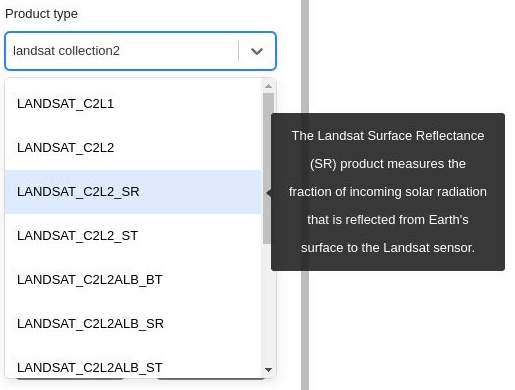
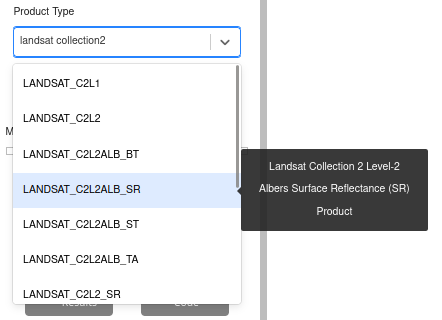
docs: v3.5.0 update

diff --git a/README.md b/README.md
@@ -72,8 +72,11 @@ Click on this icon in the left of JupyterLab interface to open EODAG-Labextensio
 
 With displayed search form, you can enter search extent and following search criteria:
 
+- **Provider**: the provider on which to perform the search. If no provider is selected, search will loop on providers
+  by [priority](https://eodag.readthedocs.io/en/stable/getting_started_guide/configure.html#priority-setting), and
+  return the first non empty results.
 - **Product type**: the searched product type. List filtering is performed using product types description keywords.
-  For each entry of the drop-down list, a tooltip is displayed at hovering time with corresponding description.
+  For each entry of the drop-down list, a tooltip is displayed at hovering time with corresponding title.
   ![product types](https://raw.githubusercontent.com/CS-SI/eodag-labextension/develop/notebooks/images/eodag_labext_product_types.png)
 
 - **Date range**: minimal and maximal dates of the search temporal window.
